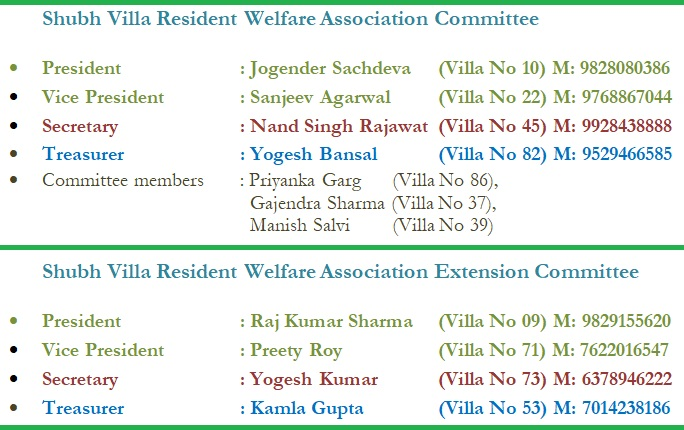
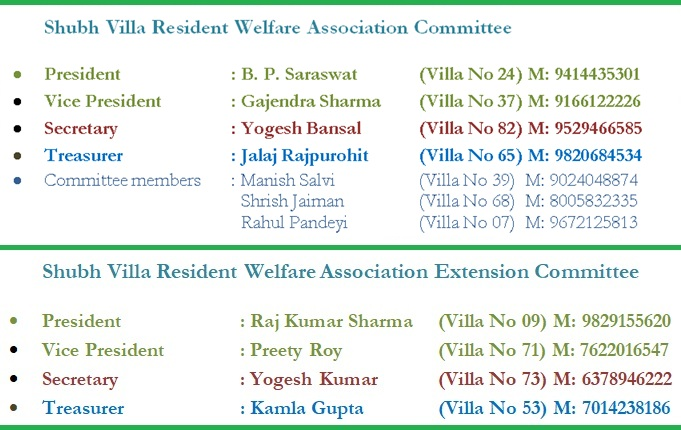
ok

diff --git a/index.html b/index.html
@@ -56,9 +56,11 @@
 									
 									<!--<li><a href="COVID19.html">COVID - 19</a></li>-->
 									<li><a href="OwnersRentDetails.html">Owners\Tenants Details</a></li>
+									<!--
 									 <li><a href="MonthlyActivityFund.html">Society Activity Fund</a></li>
 									 <li><a href="MonthlyMaintenance.html">Monthly Maintenance</a></li>
 									<li><a href="MonthlyCreditDebit.html">Collection\Expenditure</a></li>
+								-->
 									<li><a href="SocityVillaArea.html">Socity Villa Area</a></li>
 									<!--<li><a href="OtherActivity.html">Other Activity</a></li>-->
 									<!--For Now <li><a href="MeetingHistory.html">Meeting History</a></li>-->
@@ -117,21 +119,28 @@
 				   </marquee>      
        <img class="NO-CACHE" data-src="img/Ram.jpg" width="250px" heigt="250px" alt="" style="margin-bottom: 22px;">
 	   
-	    --> 
+	    
  <marquee  scrollamount="5" style= "color:rgb(216, 21, 132) ; font-size:20px" height="30px" > 
 	<h4><span style="color:rgb(155, 5, 75)">On APP details are updated till </span> <span style="color:blue">  19 Sep 2024, 10:00 PM </span> </h4>
 </marquee>
 <marquee  scrollamount="4" style= "color:rgb(216, 21, 132) ; font-size:20px" height="30px" > 
 	<h4><span style="color:rgba(230, 7, 148, 0.915)">As discussed with Society Secretary....,</span> <span style="color:rgb(12, 146, 10)">  Now details are not necessary to update on App, commitee maintaining details at their end, committee will publish the details in group. </span> </h4>
 </marquee>
-
+--> 
 	
+ <marquee  scrollamount="5" style= "color:rgb(216, 21, 132) ; font-size:20px" height="30px" > 
+	<h4><span style="color:rgb(155, 5, 75)">Upcoming Celiberation </span> <span style="color:blue">  Independence day: Flag hoisting and laddu distribution - 15 Aug 2026, 09:00 AM </span> </h4>
+</marquee>
+<marquee  scrollamount="4" style= "color:rgb(216, 21, 132) ; font-size:20px" height="30px" > 
+	<h4><span style="color:rgba(230, 7, 148, 0.915)">Sahastra Abhishek at Mandir,</span> <span style="color:rgb(12, 146, 10)">  16 August 2026. </span> </h4>
+</marquee>
+
 	<hr style="height:2px;border-width:0;color:rgb(12, 155, 53);background-color:rgb(17, 211, 33)">
 
-
+<!--
 <p style= "color:rgb(10, 131, 20)">Till now missed to pay maintenance amount villa owners list. if any correction required please update in group or at feedback section of App. </p>
 <img class="NO-CACHE" data-src="img/Pending_10Sep24.jpg" width="380px" heigt="400px" alt="" style="margin-bottom: 22px;">
-
+-->
 <img class="NO-CACHE" data-src="img/Election.jpg" width="400px" heigt="350px" alt="" style="margin-bottom: 22px;">
 
 <!--
@@ -354,8 +363,10 @@
 							<h2>
 								<a href="#"> Shubh Villa Club House Booking Status </a>
 							</h2>
+							<!--
 							<p style="color: rgb(7, 23, 144)"> Booked - 01 September 2024, Morning 8:00 AM to 5:00 PM (Phase-1 Election) </p> 
-
+-->
+							<p style="color: rgb(7, 23, 144)"> Available for Booking. </p> 
 						</div>
 
 					</div>
@@ -379,10 +390,11 @@
 							<h2>
 								<a href="#">Meeting & Update</a>
 							</h2>
+							<!--
 							<p style="color: rgb(7, 23, 144)">Next Planned Meeting at Club House on 4th August 2024, Sunday at 11:15 AM.</p> 
-
+-->
 							<p style="color: rgb(4, 80, 24)">As per decided in meeting , society meeting on every 4th Sunday at 10 AM.</p> 
-							<!--<p style="color: red">Next Meeting date not decided yet.</p> -->
+							<p style="color: red">Next Meeting date not decided yet.</p> 
 							<!--<p style="color: rgb(6, 151, 38)">A fortnightly meeting (once every two weeks) between villa owners on Saturday evening or Sunday morning. </p>
 							
 							 <p style="color: rgb(20, 9, 238)">Next Meeting date for RWA, Yet to decide, any of day from 13 or 14 or 15 August (As per per maximum availability).</p> 
@@ -440,7 +452,7 @@
 				<div align="left" ">
 					<h4 font size="8"style="color: rgb(47, 11, 226)"> Following festival were identified for celebration in society</div></H4>
 
-					<p style="color: rgb(151, 6, 83)" >1.	Paush Bada 21-Jan-2024 [Menu Halwa+Bada+Puri+Sabji for colony members and dona Prasadi for others]</p>
+					<p style="color: rgb(151, 6, 83)" >1.	Paush Bada [Menu Halwa+Bada+Puri+Sabji for colony members and dona Prasadi for others]</p>
 					<p style="color: rgb(6, 151, 38)">2.	Republic day: Flag hoisting and laddu distribution</p>
 					<!--<p style="color: rgb(6, 151, 38)">3.	Mahashivaratri: Mandir decoration and Pooja </p>-->
 					<p style="color: rgb(151, 6, 83)">3.	Holi Milan: Combined Holi celebration </p>
@@ -517,7 +529,7 @@
 				</div>
 			</div>
 			<div class="footer_bottom">
-				<p>Copyright@2023-24 <a href="#">Shubh Villa Phase I Owners</a> All Rights Reserved</p>
+				<p>Copyright@2026-27 <a href="#">Shubh Villa Phase I Owners</a> All Rights Reserved</p>
 			</div>
 		</footer>
 	</div>
